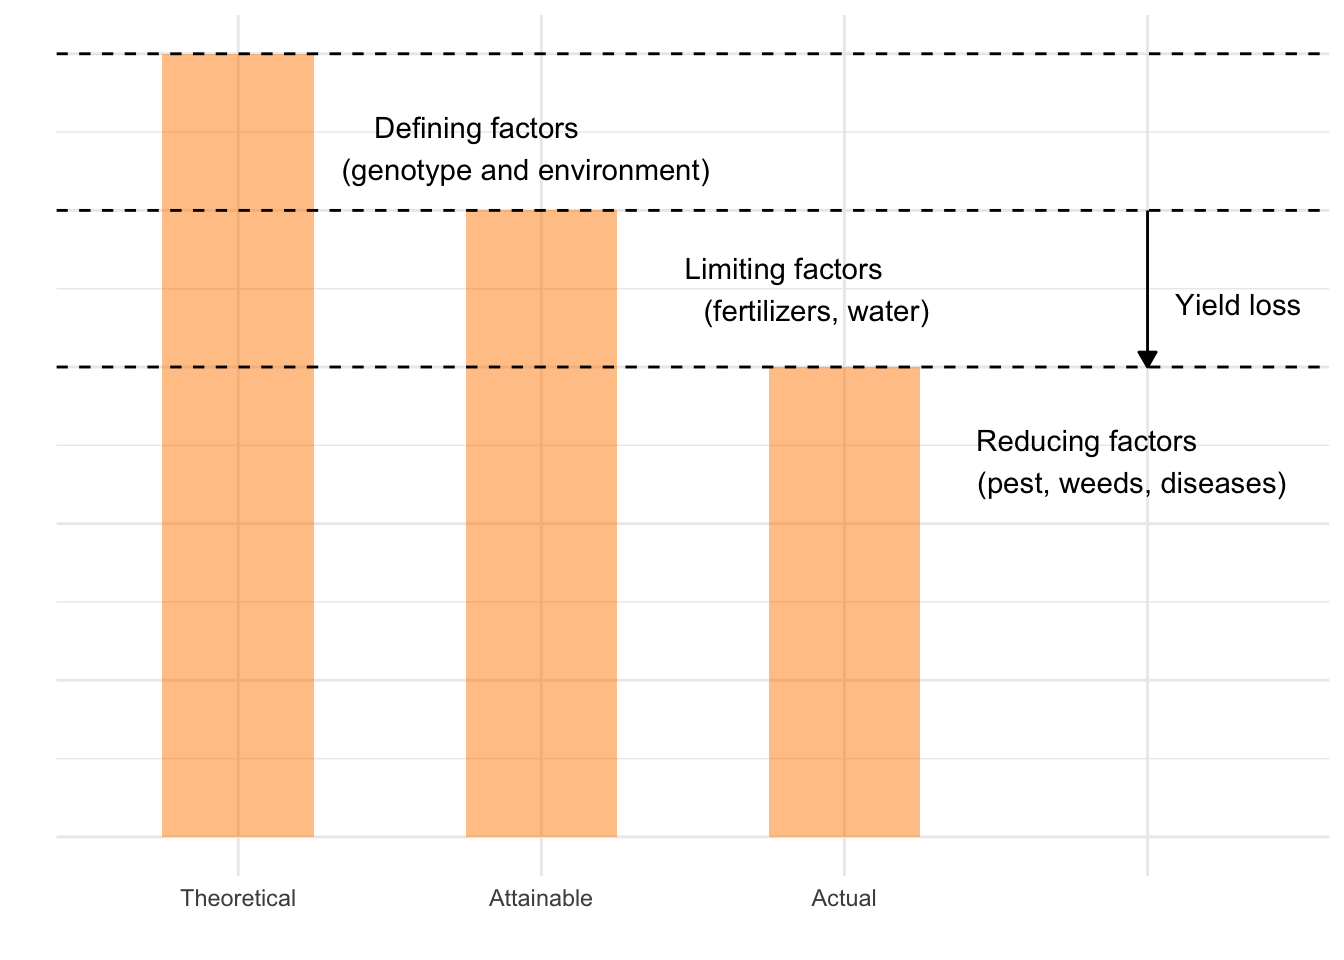
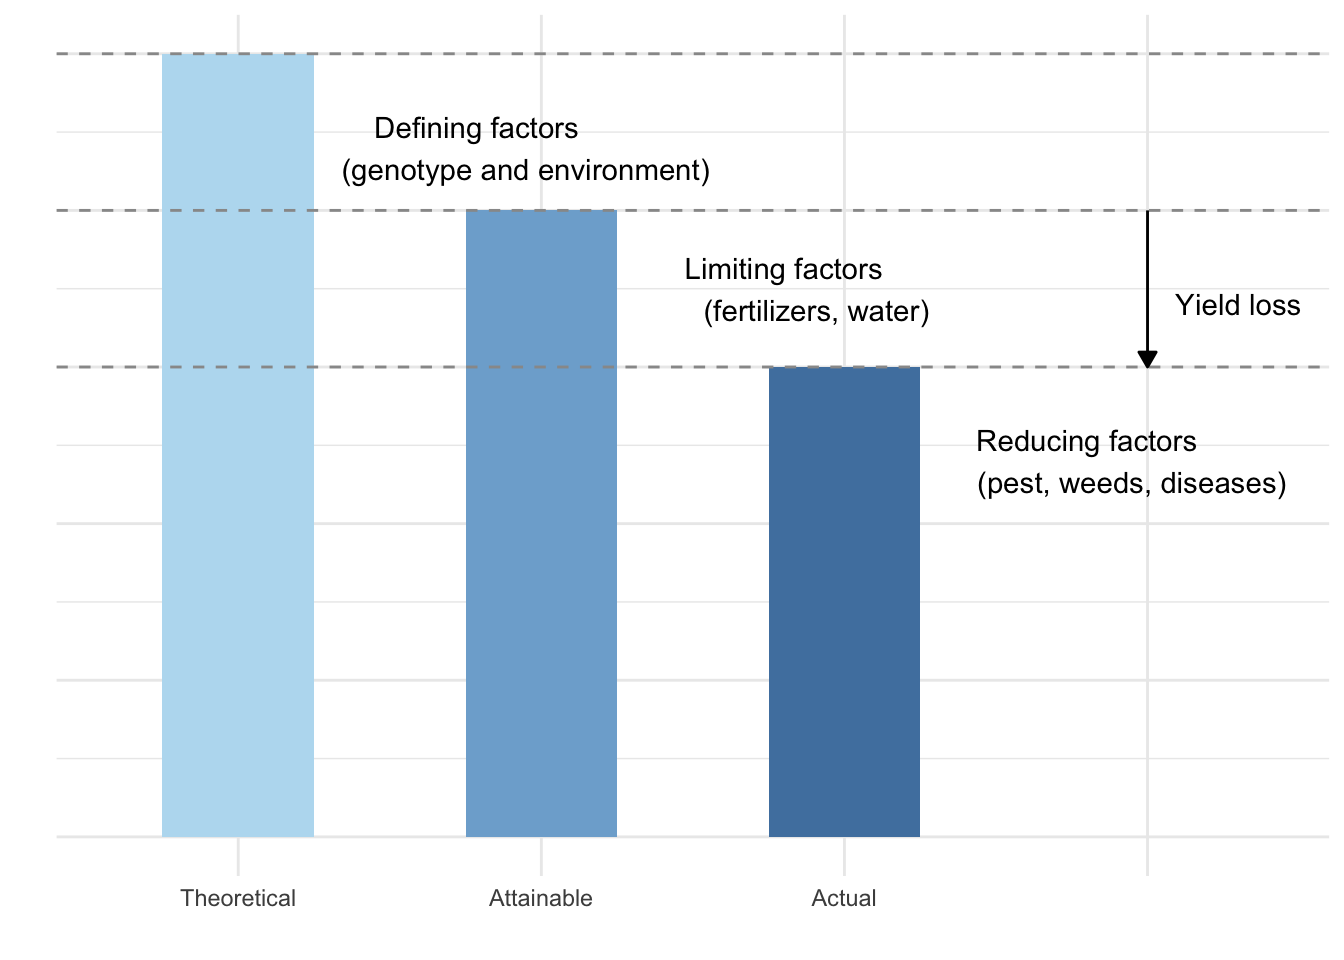
edits in yield loss chapter

Changed region(s): [[0.0938, 0.0312, 0.25, 0.875], [0.3438, 0.2188, 0.4688, 0.875], [0.5625, 0.375, 0.6875, 0.875]]

diff --git a/_book/yieldloss-concepts.html b/_book/yieldloss-concepts.html
@@ -377,37 +377,49 @@ gtag('config', 'G-5T7SZYQV79', { 'anonymize_ip': true});
 <section id="crop-loss-assessment" class="level2" data-number="15.2">
 <h2 data-number="15.2" class="anchored" data-anchor-id="crop-loss-assessment"><span class="header-section-number">15.2</span> Crop loss assessment</h2>
 <p>According to <span class="citation" data-cites="chapter2017a">Madden et al. (<a href="references.html#ref-chapter2017a" role="doc-biblioref">2017</a>)</span>, knowledge about the disease:yield relationship falls within crop loss assessment, a general branch of epidemiology that study the relationship between the attack by harmful organisms and the resulting yield (or yield loss) of crops. In fact, the study (analysis and modeling) of crop losses is considered central to plant pathology as no plant protection scientific reasoning could be possible without a measure of crop loss <span class="citation" data-cites="Savary2006">(<a href="references.html#ref-Savary2006" role="doc-biblioref">Savary et al. 2006</a>)</span>.</p>
-<p>The concept of yield levels is important to recognize as a framework to study crop losses: There are three levels (from higher to lower) of yield: theoretical, attainable and actual. The <strong>theoretical</strong> (also known as potential) yield is determined mainly by <em>defining factors</em> such as the genotype of the crop grown under ideal conditions. It can be obtained in experimental plots managed with high input of fertilizers and pesticides. The <strong>attainable</strong> yield is obtained in commercial crops managed with a full range of modern technology to maximize yield. It considers the presence of <em>limiting factors</em> such as water and fertilizers. The <strong>actual</strong> yield is generally less than or equal to attainable yield, and is obtained under the effect of <em>reducing factors</em> such as those caused by pest (disease, insects, weeds) injuries - defined as measurable symptom caused by a harmful organism. It is the crop yield actually harvested in a farmer’s field. <strong>Yield loss</strong> (expressed in absolute or relative terms) is the difference between the attainable and the actual yield. Yield loss studies are only possible when reliable field data are collected in sufficient number to allow the development of statistical (empirical) models as well as the validation of mechanistic simulation yield loss models.</p>
+<p>The concept of yield levels is important to recognize as a framework to study crop losses. There are three levels (from higher to lower) of yield: theoretical, attainable and actual.</p>
+<ul>
+<li><strong>Theoretical</strong> (also known as potential) yield is determined mainly by <em>defining factors</em> such as the genotype of the crop grown under ideal conditions. It can be obtained in experimental plots managed with high input of fertilizers and pesticides.</li>
+</ul>
+<!-- -->
+<ul>
+<li><p><strong>Attainable</strong> yield is obtained in commercial crops managed with a full range of modern technology to maximize yield. It considers the presence of <em>limiting factors</em> such as water and fertilizers.</p></li>
+<li><p><strong>Actual</strong> yield is generally less than or equal to attainable yield, and is obtained under the effect of <em>reducing factors</em> such as those caused by pest (disease, insects, weeds) injuries - defined as measurable symptom caused by a harmful organism. It is the crop yield actually harvested in a farmer’s field.</p></li>
+<li><p><strong>Yield loss</strong> (expressed in absolute or relative terms) is the difference between the attainable and the actual yield.</p></li>
+</ul>
+<p>Yield loss studies are only possible when reliable field data are collected in sufficient number to allow the development of statistical (empirical) models as well as the validation of mechanistic simulation yield loss models.</p>
 <div class="cell">
 <details>
 <summary>Code</summary>
 <div class="sourceCode cell-code" id="cb1"><pre class="sourceCode r code-with-copy"><code class="sourceCode r"><span id="cb1-1"><a href="#cb1-1" aria-hidden="true" tabindex="-1"></a><span class="fu">library</span>(tidyverse)</span>
 <span id="cb1-2"><a href="#cb1-2" aria-hidden="true" tabindex="-1"></a>yl <span class="ot">&lt;-</span> tibble<span class="sc">::</span><span class="fu">tribble</span>(</span>
-<span id="cb1-3"><a href="#cb1-3" aria-hidden="true" tabindex="-1"></a>  <span class="sc">~</span>yield, <span class="sc">~</span>value,</span>
-<span id="cb1-4"><a href="#cb1-4" aria-hidden="true" tabindex="-1"></a>  <span class="st">"Theoretical"</span>, <span class="dv">25</span>,</span>
-<span id="cb1-5"><a href="#cb1-5" aria-hidden="true" tabindex="-1"></a>  <span class="st">"Attainable"</span>, <span class="dv">20</span>,</span>
-<span id="cb1-6"><a href="#cb1-6" aria-hidden="true" tabindex="-1"></a>  <span class="st">"Actual"</span>, <span class="dv">15</span>,</span>
-<span id="cb1-7"><a href="#cb1-7" aria-hidden="true" tabindex="-1"></a>  <span class="st">""</span>, <span class="dv">0</span></span>
+<span id="cb1-3"><a href="#cb1-3" aria-hidden="true" tabindex="-1"></a>  <span class="sc">~</span>yield, <span class="sc">~</span>value, <span class="sc">~</span>class,</span>
+<span id="cb1-4"><a href="#cb1-4" aria-hidden="true" tabindex="-1"></a>  <span class="st">"Theoretical"</span>, <span class="dv">25</span>,<span class="dv">1</span>,</span>
+<span id="cb1-5"><a href="#cb1-5" aria-hidden="true" tabindex="-1"></a>  <span class="st">"Attainable"</span>, <span class="dv">20</span>,<span class="dv">2</span>,</span>
+<span id="cb1-6"><a href="#cb1-6" aria-hidden="true" tabindex="-1"></a>  <span class="st">"Actual"</span>, <span class="dv">15</span>,<span class="dv">3</span>,</span>
+<span id="cb1-7"><a href="#cb1-7" aria-hidden="true" tabindex="-1"></a>  <span class="st">""</span>, <span class="dv">0</span>, <span class="dv">4</span></span>
 <span id="cb1-8"><a href="#cb1-8" aria-hidden="true" tabindex="-1"></a>)</span>
 <span id="cb1-9"><a href="#cb1-9" aria-hidden="true" tabindex="-1"></a>yl <span class="sc">|&gt;</span> </span>
-<span id="cb1-10"><a href="#cb1-10" aria-hidden="true" tabindex="-1"></a>  <span class="fu">ggplot</span>(<span class="fu">aes</span>(<span class="fu">reorder</span>(yield,<span class="sc">-</span>value), value))<span class="sc">+</span></span>
-<span id="cb1-11"><a href="#cb1-11" aria-hidden="true" tabindex="-1"></a>  <span class="fu">geom_col</span>(<span class="at">width =</span> <span class="fl">0.5</span>, <span class="at">fill =</span> <span class="st">"darkorange"</span>, <span class="at">alpha =</span> <span class="fl">0.5</span>)<span class="sc">+</span></span>
+<span id="cb1-10"><a href="#cb1-10" aria-hidden="true" tabindex="-1"></a>  <span class="fu">ggplot</span>(<span class="fu">aes</span>(<span class="fu">reorder</span>(yield,<span class="sc">-</span>value), value, <span class="at">fill =</span> class))<span class="sc">+</span></span>
+<span id="cb1-11"><a href="#cb1-11" aria-hidden="true" tabindex="-1"></a>  <span class="fu">geom_col</span>(<span class="at">width =</span> <span class="fl">0.5</span>)<span class="sc">+</span></span>
 <span id="cb1-12"><a href="#cb1-12" aria-hidden="true" tabindex="-1"></a>  <span class="fu">theme_minimal</span>()<span class="sc">+</span></span>
-<span id="cb1-13"><a href="#cb1-13" aria-hidden="true" tabindex="-1"></a>  <span class="fu">geom_hline</span>(<span class="at">yintercept =</span> <span class="dv">25</span>, <span class="at">linetype =</span> <span class="dv">2</span>)<span class="sc">+</span></span>
-<span id="cb1-14"><a href="#cb1-14" aria-hidden="true" tabindex="-1"></a>  <span class="fu">geom_hline</span>(<span class="at">yintercept =</span> <span class="dv">20</span>, <span class="at">linetype =</span> <span class="dv">2</span>)<span class="sc">+</span></span>
-<span id="cb1-15"><a href="#cb1-15" aria-hidden="true" tabindex="-1"></a>  <span class="fu">geom_hline</span>(<span class="at">yintercept =</span> <span class="dv">15</span>, <span class="at">linetype =</span> <span class="dv">2</span>)<span class="sc">+</span></span>
-<span id="cb1-16"><a href="#cb1-16" aria-hidden="true" tabindex="-1"></a>  <span class="fu">theme</span>(<span class="at">axis.text.y=</span><span class="fu">element_blank</span>(),</span>
-<span id="cb1-17"><a href="#cb1-17" aria-hidden="true" tabindex="-1"></a>        <span class="at">axis.ticks.x =</span> <span class="fu">element_blank</span>())<span class="sc">+</span></span>
-<span id="cb1-18"><a href="#cb1-18" aria-hidden="true" tabindex="-1"></a>  <span class="fu">annotate</span>(<span class="at">geom =</span> <span class="st">"text"</span>, <span class="at">x =</span> <span class="fl">1.8</span>, <span class="at">y =</span> <span class="dv">22</span>, <span class="at">label =</span><span class="st">"Defining factors </span></span>
-<span id="cb1-19"><a href="#cb1-19" aria-hidden="true" tabindex="-1"></a><span class="st">           (genotype and environment)"</span>)<span class="sc">+</span></span>
-<span id="cb1-20"><a href="#cb1-20" aria-hidden="true" tabindex="-1"></a>  <span class="fu">annotate</span>(<span class="at">geom =</span> <span class="st">"text"</span>, <span class="at">x =</span> <span class="fl">2.8</span>, <span class="at">y =</span> <span class="fl">17.5</span>, <span class="at">label =</span><span class="st">"Limiting factors</span></span>
-<span id="cb1-21"><a href="#cb1-21" aria-hidden="true" tabindex="-1"></a><span class="st">        (fertilizers, water)"</span>)<span class="sc">+</span></span>
-<span id="cb1-22"><a href="#cb1-22" aria-hidden="true" tabindex="-1"></a>  <span class="fu">annotate</span>(<span class="at">geom =</span> <span class="st">"text"</span>, <span class="at">x =</span> <span class="fl">3.8</span>, <span class="at">y =</span> <span class="dv">12</span>, <span class="at">label =</span><span class="st">"Reducing factors</span></span>
-<span id="cb1-23"><a href="#cb1-23" aria-hidden="true" tabindex="-1"></a><span class="st">           (pest, weeds, diseases)"</span>)<span class="sc">+</span></span>
-<span id="cb1-24"><a href="#cb1-24" aria-hidden="true" tabindex="-1"></a>  <span class="fu">annotate</span>(<span class="st">"segment"</span>, <span class="at">x =</span> <span class="dv">4</span>, <span class="at">y =</span> <span class="dv">20</span>, <span class="at">xend =</span> <span class="dv">4</span>, <span class="at">yend =</span> <span class="dv">15</span>,</span>
-<span id="cb1-25"><a href="#cb1-25" aria-hidden="true" tabindex="-1"></a>         <span class="at">arrow =</span> <span class="fu">arrow</span>(<span class="at">type =</span> <span class="st">"closed"</span>, <span class="at">length =</span> <span class="fu">unit</span>(<span class="fl">0.02</span>, <span class="st">"npc"</span>)))<span class="sc">+</span></span>
-<span id="cb1-26"><a href="#cb1-26" aria-hidden="true" tabindex="-1"></a>  <span class="fu">annotate</span>(<span class="at">geom =</span> <span class="st">"text"</span>, <span class="at">x =</span> <span class="fl">4.3</span>, <span class="at">y =</span> <span class="dv">17</span>, <span class="at">label =</span><span class="st">"Yield loss"</span>)<span class="sc">+</span></span>
-<span id="cb1-27"><a href="#cb1-27" aria-hidden="true" tabindex="-1"></a>  <span class="fu">labs</span>(<span class="at">x =</span> <span class="st">""</span>, <span class="at">y =</span> <span class="st">""</span>)</span></code><button title="Copy to Clipboard" class="code-copy-button"><i class="bi"></i></button></pre></div>
+<span id="cb1-13"><a href="#cb1-13" aria-hidden="true" tabindex="-1"></a>  ggthemes<span class="sc">::</span><span class="fu">scale_fill_gradient_tableau</span>()<span class="sc">+</span></span>
+<span id="cb1-14"><a href="#cb1-14" aria-hidden="true" tabindex="-1"></a>  <span class="fu">geom_hline</span>(<span class="at">yintercept =</span> <span class="dv">25</span>, <span class="at">linetype =</span> <span class="dv">2</span>, <span class="at">color =</span> <span class="st">"gray60"</span>)<span class="sc">+</span></span>
+<span id="cb1-15"><a href="#cb1-15" aria-hidden="true" tabindex="-1"></a>  <span class="fu">geom_hline</span>(<span class="at">yintercept =</span> <span class="dv">20</span>, <span class="at">linetype =</span> <span class="dv">2</span>, <span class="at">color =</span> <span class="st">"gray60"</span>)<span class="sc">+</span></span>
+<span id="cb1-16"><a href="#cb1-16" aria-hidden="true" tabindex="-1"></a>  <span class="fu">geom_hline</span>(<span class="at">yintercept =</span> <span class="dv">15</span>, <span class="at">linetype =</span> <span class="dv">2</span>, <span class="at">color =</span> <span class="st">"gray60"</span>)<span class="sc">+</span></span>
+<span id="cb1-17"><a href="#cb1-17" aria-hidden="true" tabindex="-1"></a>  <span class="fu">theme</span>(<span class="at">legend.position =</span> <span class="st">"none"</span>, </span>
+<span id="cb1-18"><a href="#cb1-18" aria-hidden="true" tabindex="-1"></a>        <span class="at">axis.text.y=</span><span class="fu">element_blank</span>(),</span>
+<span id="cb1-19"><a href="#cb1-19" aria-hidden="true" tabindex="-1"></a>        <span class="at">axis.ticks.x =</span> <span class="fu">element_blank</span>())<span class="sc">+</span></span>
+<span id="cb1-20"><a href="#cb1-20" aria-hidden="true" tabindex="-1"></a>  <span class="fu">annotate</span>(<span class="at">geom =</span> <span class="st">"text"</span>, <span class="at">x =</span> <span class="fl">1.8</span>, <span class="at">y =</span> <span class="dv">22</span>, <span class="at">label =</span><span class="st">"Defining factors </span></span>
+<span id="cb1-21"><a href="#cb1-21" aria-hidden="true" tabindex="-1"></a><span class="st">           (genotype and environment)"</span>)<span class="sc">+</span></span>
+<span id="cb1-22"><a href="#cb1-22" aria-hidden="true" tabindex="-1"></a>  <span class="fu">annotate</span>(<span class="at">geom =</span> <span class="st">"text"</span>, <span class="at">x =</span> <span class="fl">2.8</span>, <span class="at">y =</span> <span class="fl">17.5</span>, <span class="at">label =</span><span class="st">"Limiting factors</span></span>
+<span id="cb1-23"><a href="#cb1-23" aria-hidden="true" tabindex="-1"></a><span class="st">        (fertilizers, water)"</span>)<span class="sc">+</span></span>
+<span id="cb1-24"><a href="#cb1-24" aria-hidden="true" tabindex="-1"></a>  <span class="fu">annotate</span>(<span class="at">geom =</span> <span class="st">"text"</span>, <span class="at">x =</span> <span class="fl">3.8</span>, <span class="at">y =</span> <span class="dv">12</span>, <span class="at">label =</span><span class="st">"Reducing factors</span></span>
+<span id="cb1-25"><a href="#cb1-25" aria-hidden="true" tabindex="-1"></a><span class="st">           (pest, weeds, diseases)"</span>)<span class="sc">+</span></span>
+<span id="cb1-26"><a href="#cb1-26" aria-hidden="true" tabindex="-1"></a>  <span class="fu">annotate</span>(<span class="st">"segment"</span>, <span class="at">x =</span> <span class="dv">4</span>, <span class="at">y =</span> <span class="dv">20</span>, <span class="at">xend =</span> <span class="dv">4</span>, <span class="at">yend =</span> <span class="dv">15</span>,</span>
+<span id="cb1-27"><a href="#cb1-27" aria-hidden="true" tabindex="-1"></a>         <span class="at">arrow =</span> <span class="fu">arrow</span>(<span class="at">type =</span> <span class="st">"closed"</span>, <span class="at">length =</span> <span class="fu">unit</span>(<span class="fl">0.02</span>, <span class="st">"npc"</span>)))<span class="sc">+</span></span>
+<span id="cb1-28"><a href="#cb1-28" aria-hidden="true" tabindex="-1"></a>  <span class="fu">annotate</span>(<span class="at">geom =</span> <span class="st">"text"</span>, <span class="at">x =</span> <span class="fl">4.3</span>, <span class="at">y =</span> <span class="dv">17</span>, <span class="at">label =</span><span class="st">"Yield loss"</span>)<span class="sc">+</span></span>
+<span id="cb1-29"><a href="#cb1-29" aria-hidden="true" tabindex="-1"></a>  <span class="fu">labs</span>(<span class="at">x =</span> <span class="st">""</span>, <span class="at">y =</span> <span class="st">""</span>)</span></code><button title="Copy to Clipboard" class="code-copy-button"><i class="bi"></i></button></pre></div>
 </details>
 <div class="cell-output-display">
 <div id="fig-yield" class="quarto-figure quarto-figure-center anchored">
